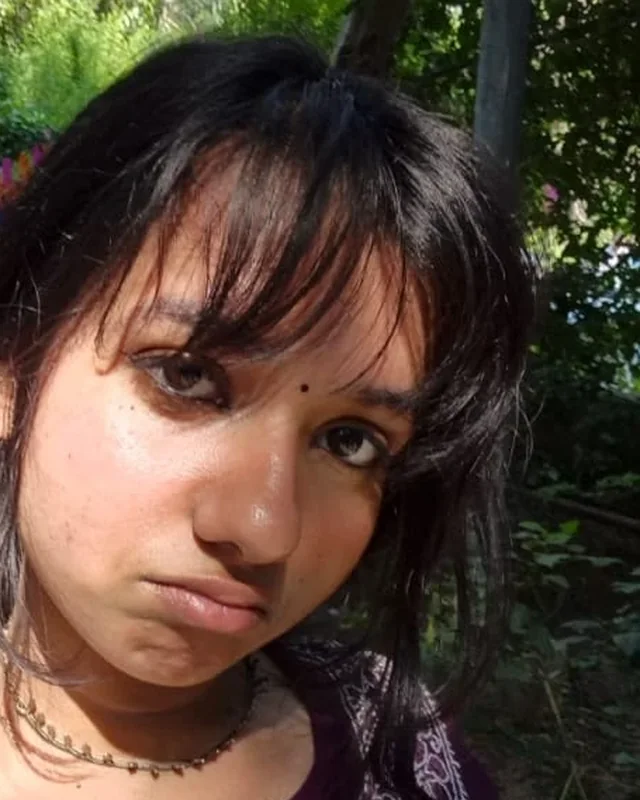
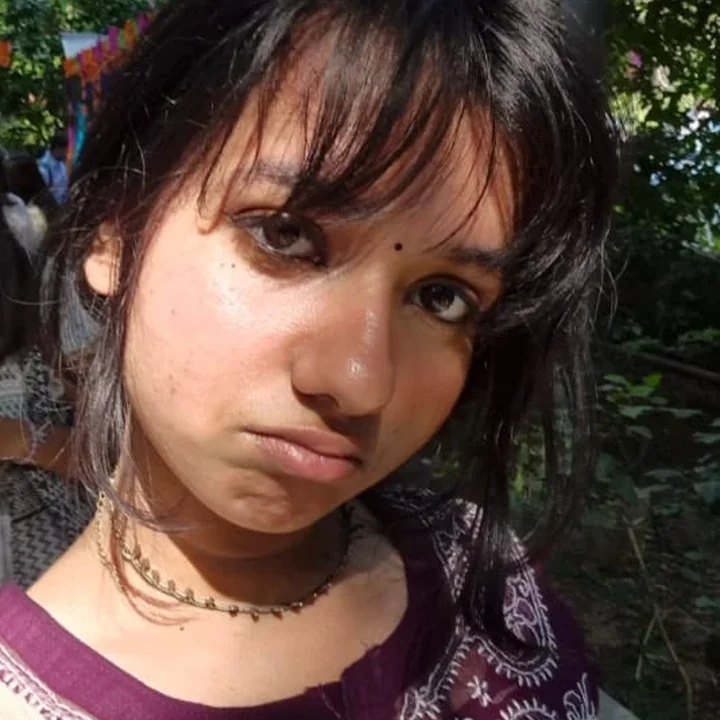
Show the team as level square photos with centred faces
- Re-crop all three founder photos as squares, each face centred at the
  same scale (Anoushka's face was off to the side)
- Replace the tilted polaroid/tape look with straight photo cards
- Fix a JS string broken by the previous apostrophe change

Claude-Session: https://claude.ai/code/session_016fyN5fUCSLNsDC4Hh2G9Gx

diff --git a/assets/css/style.css b/assets/css/style.css
@@ -824,50 +824,35 @@ button { font: inherit; color: inherit; }
 }
 
 /* ---------------------------------------------------------
-   team — polaroids
+   team — photo cards
    --------------------------------------------------------- */
 .team {
   background-color: var(--dots-bg);
   background-image: radial-gradient(circle, var(--dot) 0 5px, transparent 5.5px);
   background-size: 84px 84px;
 }
-.people { display: grid; grid-template-columns: repeat(3, minmax(0, 1fr)); gap: clamp(24px, 3vw, 40px); align-items: start; }
-.person { display: flex; flex-direction: column; align-items: center; }
-.polaroid {
-  position: relative;
-  width: min(270px, 80%);
-  margin: 0 0 -26px;
-  padding: 14px 14px 0;
-  background: #fff;
-  box-shadow: var(--shadow-2);
-  transform: rotate(var(--pr, 0deg));
-  transition: transform .55s var(--spring), box-shadow .3s;
-  z-index: 2;
-}
-.person:hover .polaroid, .person:focus-within .polaroid { transform: rotate(0deg) translateY(-10px) scale(1.03); }
-.polaroid img { width: 100%; height: auto; aspect-ratio: 4 / 5; object-fit: cover; filter: saturate(.95) contrast(1.02); background: var(--sky-3); }
-.polaroid figcaption { padding: 12px 0 16px; text-align: center; font-family: var(--f-script); font-size: 1.15rem; color: var(--ink); }
-.tape {
-  position: absolute;
-  top: -14px; left: 50%;
-  width: 96px; height: 28px;
-  translate: -50% 0;
-  rotate: -5deg;
-  background: rgba(196, 217, 239, .82);
-  border-left: 1.5px dashed rgba(36, 56, 91, .2);
-  border-right: 1.5px dashed rgba(36, 56, 91, .2);
-  box-shadow: 0 1px 2px rgba(36, 56, 91, .1);
-}
-.person:nth-child(2) .tape { background: rgba(243, 215, 217, .85); rotate: 4deg; }
-.person:nth-child(3) .tape { background: rgba(246, 215, 124, .7); rotate: -2deg; }
-.person__info {
-  width: 100%;
-  padding: 46px 22px 22px;
+.people { display: grid; grid-template-columns: repeat(3, minmax(0, 1fr)); gap: clamp(22px, 3vw, 36px); align-items: stretch; }
+.person {
+  display: flex;
+  flex-direction: column;
+  overflow: hidden;
   border-radius: var(--r-lg);
   background: var(--cream);
   border: 2px solid var(--ink);
-  box-shadow: 0 5px 0 var(--ink);
+  box-shadow: 0 6px 0 var(--ink);
+  transition: transform .45s var(--spring), box-shadow .3s;
 }
+.js .person[data-reveal].is-in:hover, .person:hover { transform: translateY(-6px); box-shadow: 0 12px 0 var(--ink); }
+.person__photo { aspect-ratio: 1 / 1; overflow: hidden; border-bottom: 2px solid var(--ink); background: var(--sky-3); }
+.person__photo img { width: 100%; height: 100%; object-fit: cover; object-position: center; transition: transform .6s var(--ease-out); }
+.person:hover .person__photo img { transform: scale(1.04); }
+.person__info {
+  display: flex;
+  flex-direction: column;
+  flex: 1;
+  padding: 20px 22px 22px;
+}
+.person__info .link { margin-top: auto; align-self: flex-start; }
 .person__role { margin: 0; font-family: var(--f-serif); text-transform: uppercase; letter-spacing: .14em; font-size: .95rem; color: var(--ink-faint); }
 .person__info h3 { margin: 0; font-family: var(--f-groovy); font-weight: 400; font-size: 2.6rem; line-height: 1.05; }
 .person__study { margin: .1em 0 .8em; font-weight: 700; color: var(--blue-deep); font-size: 1.04rem; line-height: 1.3; }
@@ -1133,7 +1118,7 @@ button { font: inherit; color: inherit; }
   .postcard__side { flex-direction: row; align-items: center; }
   .postmark { display: none; }
   .stamps { grid-template-columns: repeat(4, minmax(0, 1fr)); width: 100%; }
-  .people { grid-template-columns: minmax(0, 1fr); max-width: 520px; margin-inline: auto; gap: 56px; }
+  .people { grid-template-columns: minmax(0, 1fr); max-width: 480px; margin-inline: auto; gap: 32px; }
   .price-grid { grid-template-columns: minmax(0, 1fr); }
   .builder { grid-template-columns: minmax(0, 1fr); }
   .builder__sum { grid-column: 1; grid-row: auto; }

diff --git a/index.html b/index.html
@@ -277,12 +277,8 @@
     <p class="sub" data-reveal>Three friends, three different degrees, one shared love for pretty websites.</p>
 
     <div class="people">
-      <article class="person" data-reveal style="--pr:-2.5deg">
-        <figure class="polaroid">
-          <span class="tape" aria-hidden="true"></span>
-          <img src="assets/img/team/raghav.webp" width="640" height="800" alt="Raghav Singh" loading="lazy">
-          <figcaption>raghav</figcaption>
-        </figure>
+      <article class="person" data-reveal>
+        <div class="person__photo"><img src="assets/img/team/raghav.webp" width="720" height="720" alt="Raghav Singh" loading="lazy"></div>
         <div class="person__info">
           <p class="person__role">co-founder</p>
           <h3>Raghav Singh</h3>
@@ -297,12 +293,8 @@
         </div>
       </article>
 
-      <article class="person" data-reveal style="--pr:2deg">
-        <figure class="polaroid">
-          <span class="tape" aria-hidden="true"></span>
-          <img src="assets/img/team/ansshita.webp" width="640" height="800" alt="Ansshita Kumar" loading="lazy">
-          <figcaption>ansshita</figcaption>
-        </figure>
+      <article class="person" data-reveal>
+        <div class="person__photo"><img src="assets/img/team/ansshita.webp" width="720" height="720" alt="Ansshita Kumar" loading="lazy"></div>
         <div class="person__info">
           <p class="person__role">co-founder</p>
           <h3>Ansshita Kumar</h3>
@@ -317,12 +309,8 @@
         </div>
       </article>
 
-      <article class="person" data-reveal style="--pr:-1.5deg">
-        <figure class="polaroid">
-          <span class="tape" aria-hidden="true"></span>
-          <img src="assets/img/team/anoushka.webp" width="640" height="800" alt="Anoushka Dey" loading="lazy">
-          <figcaption>anoushka</figcaption>
-        </figure>
+      <article class="person" data-reveal>
+        <div class="person__photo"><img src="assets/img/team/anoushka.webp" width="720" height="720" alt="Anoushka Dey" loading="lazy"></div>
         <div class="person__info">
           <p class="person__role">co-founder</p>
           <h3>Anoushka Dey</h3>

diff --git a/assets/js/main.js b/assets/js/main.js
@@ -41,7 +41,7 @@
     },
     {
       title: 'Smart Attendance Tracker', url: 'https://gurltff.github.io/attendance-tracker/',
-      desc: 'Attendance for students, teachers and CRs, with dashboards, announcements and geotagged check-ins. 1st place at our college's internal SIH hackathon.',
+      desc: 'Attendance for students, teachers and CRs, with dashboards, announcements and geotagged check-ins. 1st place at our college\'s internal SIH hackathon.',
       tags: ['web app', 'hackathon winner'], cover: 'attendance-cover',
     },
   ];
